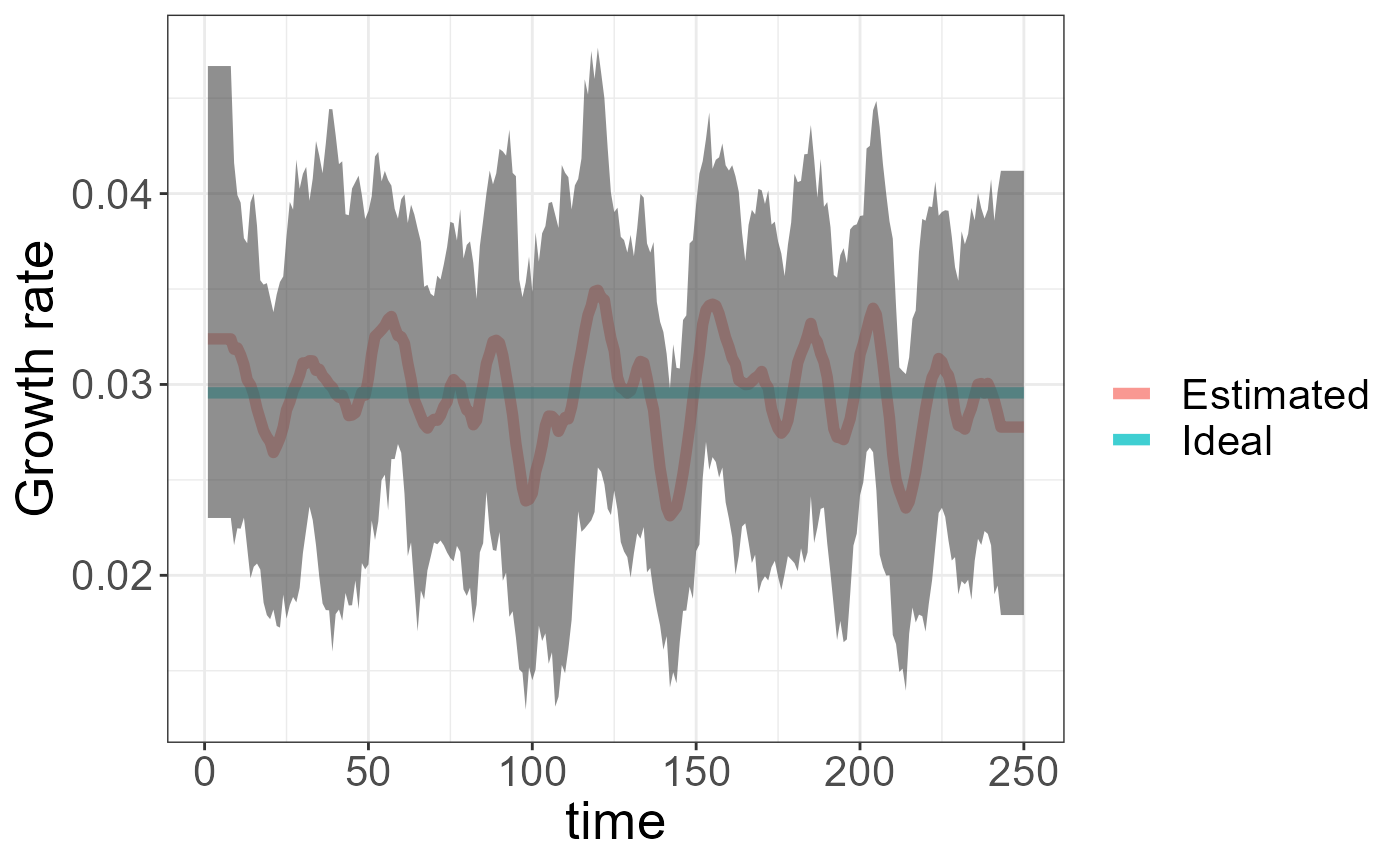
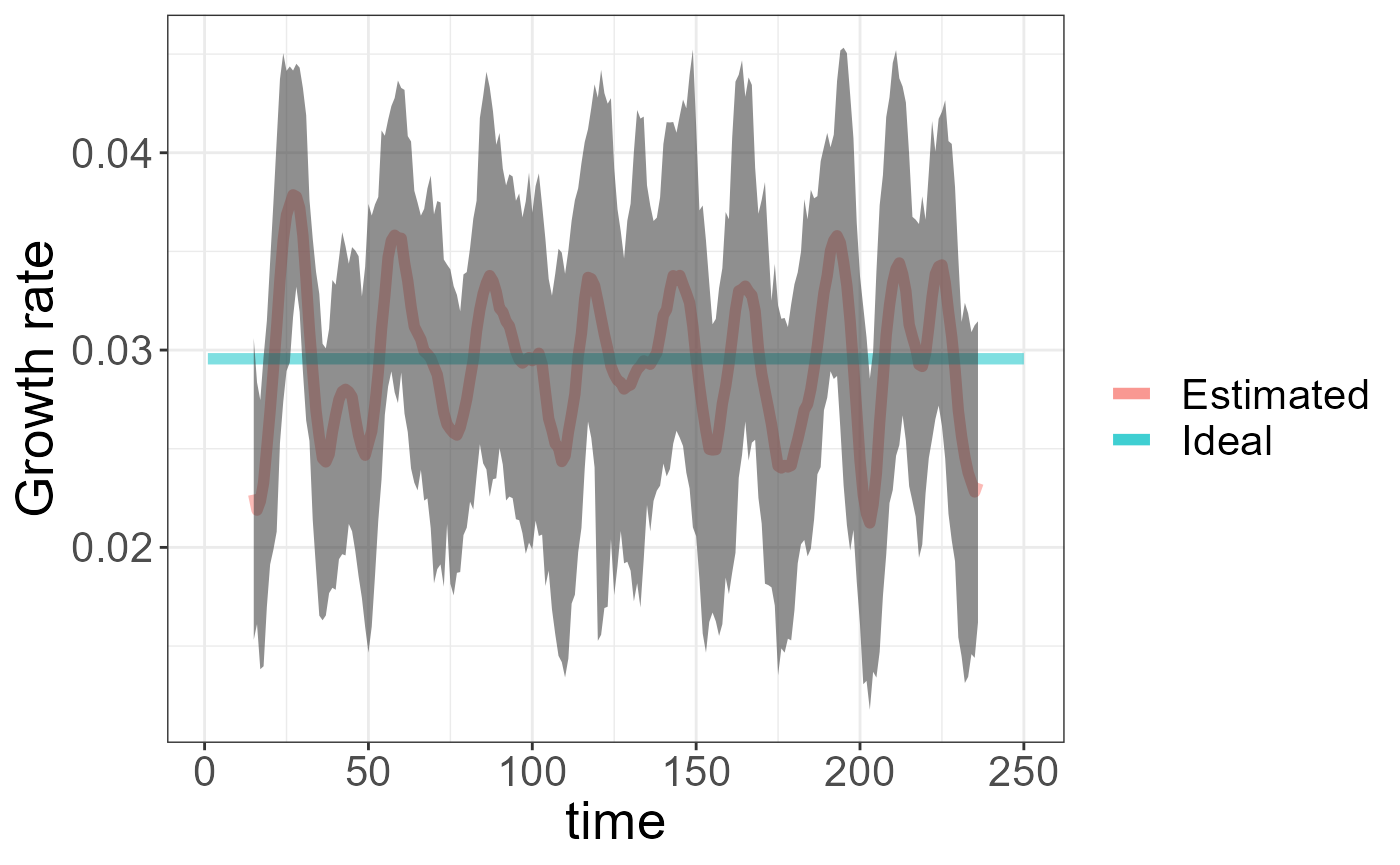
remove starting and ending values by default

Changed region(s): [[0.0307, 0.0624, 0.7371, 0.8116], [0.0307, 0.6243, 0.1229, 0.6867]]

diff --git a/docs/articles/getting_started.html b/docs/articles/getting_started.html
@@ -82,7 +82,7 @@
       <h1 data-toc-skip>Getting Started</h1>
                         <h4 class="author">Matthew So</h4>
             
-            <h4 class="date">2021-06-17</h4>
+            <h4 class="date">2021-06-24</h4>
       
       <small class="dont-index">Source: <a href="https://github.com/matthewcso/rtFilterEstim/blob/master/vignettes/getting_started.rmd"><code>vignettes/getting_started.rmd</code></a></small>
       <div class="hidden name"><code>getting_started.rmd</code></div>
@@ -118,7 +118,7 @@
 <div class="sourceCode" id="cb3"><pre class="downlit sourceCode r">
 <code class="sourceCode R"><span class="fu"><a href="https://rdrr.io/r/base/warning.html">suppressWarnings</a></span><span class="op">(</span>
 <span class="va">estimated_rt</span> <span class="op">&lt;-</span> <span class="fu"><a href="../reference/filter_and_estimate.html">filter_and_estimate</a></span><span class="op">(</span><span class="va">incidence</span>, 
-                                    n_resample<span class="op">=</span><span class="fl">1</span>, n<span class="op">=</span><span class="fl">7</span><span class="op">)</span>
+                                    n_resample<span class="op">=</span><span class="fl">1</span>, n<span class="op">=</span><span class="fl">7</span>, hide_invalid<span class="op">=</span><span class="cn">FALSE</span><span class="op">)</span>
 <span class="op">)</span>
 <span class="va">df</span> <span class="op">&lt;-</span> <span class="fu"><a href="https://rdrr.io/r/base/data.frame.html">data.frame</a></span><span class="op">(</span>incidence<span class="op">=</span><span class="va">incidence</span>, rt_estimate <span class="op">=</span> <span class="va">estimated_rt</span><span class="op">$</span><span class="va">mean</span>, t <span class="op">=</span> <span class="fu"><a href="https://rdrr.io/r/base/c.html">c</a></span><span class="op">(</span><span class="fl">1</span><span class="op">:</span><span class="fl">250</span><span class="op">)</span>, ideal <span class="op">=</span> <span class="fu"><a href="https://rdrr.io/r/base/rep.html">rep</a></span><span class="op">(</span><span class="fu"><a href="https://rdrr.io/r/base/Log.html">log</a></span><span class="op">(</span><span class="fl">1.03</span><span class="op">)</span>, <span class="fl">250</span><span class="op">)</span><span class="op">)</span>
 
@@ -127,8 +127,23 @@
     <span class="fu"><a href="https://ggplot2.tidyverse.org/reference/geom_path.html">geom_line</a></span><span class="op">(</span><span class="fu"><a href="https://ggplot2.tidyverse.org/reference/aes.html">aes</a></span><span class="op">(</span>x<span class="op">=</span><span class="va">t</span>, y<span class="op">=</span><span class="va">ideal</span>, color<span class="op">=</span><span class="st">'Ideal'</span><span class="op">)</span>, alpha<span class="op">=</span><span class="fl">0.5</span>, size<span class="op">=</span><span class="fl">2</span><span class="op">)</span><span class="op">+</span>
     <span class="fu"><a href="https://ggplot2.tidyverse.org/reference/labs.html">labs</a></span><span class="op">(</span>x<span class="op">=</span><span class="st">'time'</span>, y<span class="op">=</span><span class="st">'Growth rate'</span>, col<span class="op">=</span><span class="st">''</span><span class="op">)</span> <span class="op">+</span>
     <span class="fu"><a href="https://ggplot2.tidyverse.org/reference/theme.html">theme</a></span><span class="op">(</span>text <span class="op">=</span> <span class="fu"><a href="https://ggplot2.tidyverse.org/reference/element.html">element_text</a></span><span class="op">(</span>size<span class="op">=</span><span class="fl">20</span><span class="op">)</span><span class="op">)</span></code></pre></div>
-<p><img src="getting_started_files/figure-html/estimate-1.png" width="700"> Let’s try a more difficult example with some noise added.</p>
+<p><img src="getting_started_files/figure-html/estimate-1.png" width="700"></p>
+<p>We can set hide_invalid to TRUE (the default)to remove the points at the beginning and end of the curves.</p>
 <div class="sourceCode" id="cb4"><pre class="downlit sourceCode r">
+<code class="sourceCode R"><span class="fu"><a href="https://rdrr.io/r/base/warning.html">suppressWarnings</a></span><span class="op">(</span>
+<span class="va">estimated_rt</span> <span class="op">&lt;-</span> <span class="fu"><a href="../reference/filter_and_estimate.html">filter_and_estimate</a></span><span class="op">(</span><span class="va">incidence</span>, 
+                                    n_resample<span class="op">=</span><span class="fl">1</span>, n<span class="op">=</span><span class="fl">7</span>, hide_invalid<span class="op">=</span><span class="cn">TRUE</span><span class="op">)</span>
+<span class="op">)</span>
+<span class="va">df</span> <span class="op">&lt;-</span> <span class="fu"><a href="https://rdrr.io/r/base/data.frame.html">data.frame</a></span><span class="op">(</span>incidence<span class="op">=</span><span class="va">incidence</span>, rt_estimate <span class="op">=</span> <span class="va">estimated_rt</span><span class="op">$</span><span class="va">mean</span>, t <span class="op">=</span> <span class="fu"><a href="https://rdrr.io/r/base/c.html">c</a></span><span class="op">(</span><span class="fl">1</span><span class="op">:</span><span class="fl">250</span><span class="op">)</span>, ideal <span class="op">=</span> <span class="fu"><a href="https://rdrr.io/r/base/rep.html">rep</a></span><span class="op">(</span><span class="fu"><a href="https://rdrr.io/r/base/Log.html">log</a></span><span class="op">(</span><span class="fl">1.03</span><span class="op">)</span>, <span class="fl">250</span><span class="op">)</span><span class="op">)</span>
+
+<span class="fu"><a href="https://ggplot2.tidyverse.org/reference/ggplot.html">ggplot</a></span><span class="op">(</span><span class="va">df</span><span class="op">)</span> <span class="op">+</span>
+    <span class="fu"><a href="https://ggplot2.tidyverse.org/reference/geom_path.html">geom_line</a></span><span class="op">(</span><span class="fu"><a href="https://ggplot2.tidyverse.org/reference/aes.html">aes</a></span><span class="op">(</span>x<span class="op">=</span><span class="va">t</span>, y<span class="op">=</span><span class="va">rt_estimate</span>, color<span class="op">=</span><span class="st">'Estimated'</span><span class="op">)</span>, alpha<span class="op">=</span><span class="fl">0.5</span>, size<span class="op">=</span><span class="fl">2</span><span class="op">)</span> <span class="op">+</span>
+    <span class="fu"><a href="https://ggplot2.tidyverse.org/reference/geom_path.html">geom_line</a></span><span class="op">(</span><span class="fu"><a href="https://ggplot2.tidyverse.org/reference/aes.html">aes</a></span><span class="op">(</span>x<span class="op">=</span><span class="va">t</span>, y<span class="op">=</span><span class="va">ideal</span>, color<span class="op">=</span><span class="st">'Ideal'</span><span class="op">)</span>, alpha<span class="op">=</span><span class="fl">0.5</span>, size<span class="op">=</span><span class="fl">2</span><span class="op">)</span><span class="op">+</span>
+    <span class="fu"><a href="https://ggplot2.tidyverse.org/reference/labs.html">labs</a></span><span class="op">(</span>x<span class="op">=</span><span class="st">'time'</span>, y<span class="op">=</span><span class="st">'Growth rate'</span>, col<span class="op">=</span><span class="st">''</span><span class="op">)</span> <span class="op">+</span>
+    <span class="fu"><a href="https://ggplot2.tidyverse.org/reference/theme.html">theme</a></span><span class="op">(</span>text <span class="op">=</span> <span class="fu"><a href="https://ggplot2.tidyverse.org/reference/element.html">element_text</a></span><span class="op">(</span>size<span class="op">=</span><span class="fl">20</span><span class="op">)</span><span class="op">)</span></code></pre></div>
+<pre><code>## Warning: Removed 12 row(s) containing missing values (geom_path).</code></pre>
+<p><img src="getting_started_files/figure-html/estimate_no_invalid-1.png" width="700"> Let’s try a more difficult example with some noise added.</p>
+<div class="sourceCode" id="cb6"><pre class="downlit sourceCode r">
 <code class="sourceCode R"><span class="va">time</span> <span class="op">&lt;-</span> <span class="fu"><a href="https://rdrr.io/r/base/c.html">c</a></span><span class="op">(</span><span class="fl">1</span><span class="op">:</span><span class="fl">250</span><span class="op">)</span>
 <span class="va">incidence</span> <span class="op">&lt;-</span> <span class="fu"><a href="https://rdrr.io/r/base/lapply.html">sapply</a></span><span class="op">(</span><span class="va">time</span>, <span class="kw">function</span><span class="op">(</span><span class="va">n</span><span class="op">)</span><span class="op">{</span><span class="fl">10</span><span class="op">*</span><span class="op">(</span><span class="fl">1.03</span><span class="op">**</span><span class="va">n</span><span class="op">)</span><span class="op">*</span><span class="fu"><a href="https://rdrr.io/r/stats/Uniform.html">runif</a></span><span class="op">(</span><span class="fl">1</span>, min<span class="op">=</span><span class="fl">0.9</span>, max<span class="op">=</span><span class="fl">1.1</span><span class="op">)</span><span class="op">}</span><span class="op">)</span>
 
@@ -137,7 +152,7 @@
     <span class="fu"><a href="https://ggplot2.tidyverse.org/reference/labs.html">labs</a></span><span class="op">(</span>x<span class="op">=</span><span class="st">'Time (days)'</span>, y<span class="op">=</span><span class="st">'Incidence (1/day)'</span><span class="op">)</span> <span class="op">+</span>
     <span class="fu"><a href="https://ggplot2.tidyverse.org/reference/theme.html">theme</a></span><span class="op">(</span>text <span class="op">=</span> <span class="fu"><a href="https://ggplot2.tidyverse.org/reference/element.html">element_text</a></span><span class="op">(</span>size<span class="op">=</span><span class="fl">20</span><span class="op">)</span><span class="op">)</span></code></pre></div>
 <p><img src="getting_started_files/figure-html/usage_noise-1.png" width="700"> Due to the increased noise level in this data, a longer filtering interval may be necessary. (Filtering intervals must be odd, due to the use of the Savitzky-Golay filter). We will also make use of the confidence interval generation by using a reasonable number to bootstrap CI estimation.</p>
-<div class="sourceCode" id="cb5"><pre class="downlit sourceCode r">
+<div class="sourceCode" id="cb7"><pre class="downlit sourceCode r">
 <code class="sourceCode R"><span class="fu"><a href="https://rdrr.io/r/base/warning.html">suppressWarnings</a></span><span class="op">(</span>
 <span class="va">estimated_rt</span> <span class="op">&lt;-</span> <span class="fu"><a href="../reference/filter_and_estimate.html">filter_and_estimate</a></span><span class="op">(</span><span class="va">incidence</span>, 
                                     n_resample<span class="op">=</span><span class="fl">100</span>, n<span class="op">=</span><span class="fl">15</span><span class="op">)</span>
@@ -150,6 +165,7 @@
     <span class="fu"><a href="https://ggplot2.tidyverse.org/reference/labs.html">labs</a></span><span class="op">(</span>x<span class="op">=</span><span class="st">'time'</span>, y<span class="op">=</span><span class="st">'Growth rate'</span>, col<span class="op">=</span><span class="st">''</span><span class="op">)</span> <span class="op">+</span>
     <span class="fu"><a href="https://ggplot2.tidyverse.org/reference/geom_ribbon.html">geom_ribbon</a></span><span class="op">(</span><span class="fu"><a href="https://ggplot2.tidyverse.org/reference/aes.html">aes</a></span><span class="op">(</span>x<span class="op">=</span><span class="va">t</span>, ymin<span class="op">=</span><span class="va">lower</span>, ymax<span class="op">=</span><span class="va">upper</span>, alpha<span class="op">=</span><span class="fl">0.05</span><span class="op">)</span>, show.legend<span class="op">=</span><span class="cn">FALSE</span><span class="op">)</span> <span class="op">+</span>
     <span class="fu"><a href="https://ggplot2.tidyverse.org/reference/theme.html">theme</a></span><span class="op">(</span>text <span class="op">=</span> <span class="fu"><a href="https://ggplot2.tidyverse.org/reference/element.html">element_text</a></span><span class="op">(</span>size<span class="op">=</span><span class="fl">20</span><span class="op">)</span><span class="op">)</span></code></pre></div>
+<pre><code>## Warning: Removed 28 row(s) containing missing values (geom_path).</code></pre>
 <p><img src="getting_started_files/figure-html/estimate_noise-1.png" width="700"></p>
 </div>
   </div>

diff --git a/docs/reference/filter_and_estimate.html b/docs/reference/filter_and_estimate.html
@@ -129,7 +129,14 @@
     <p>Utility function for filtering and estimating</p>
     </div>
 
-    <pre class="usage"><span class='fu'>filter_and_estimate</span><span class='op'>(</span><span class='va'>incidence</span>, <span class='va'>n_resample</span>, level <span class='op'>=</span> <span class='fl'>0.95</span>, shift_amt <span class='op'>=</span> <span class='fl'>0</span>, n <span class='op'>=</span> <span class='fl'>7</span><span class='op'>)</span></pre>
+    <pre class="usage"><span class='fu'>filter_and_estimate</span><span class='op'>(</span>
+  <span class='va'>incidence</span>,
+  <span class='va'>n_resample</span>,
+  level <span class='op'>=</span> <span class='fl'>0.95</span>,
+  shift_amt <span class='op'>=</span> <span class='fl'>0</span>,
+  n <span class='op'>=</span> <span class='fl'>7</span>,
+  hide_invalid <span class='op'>=</span> <span class='cn'>TRUE</span>
+<span class='op'>)</span></pre>
 
     <h2 class="hasAnchor" id="arguments"><a class="anchor" href="#arguments"></a>Arguments</h2>
     <table class="ref-arguments">
@@ -153,6 +160,10 @@
     <tr>
       <th>n</th>
       <td><p>number of timesteps to filter (longer is smoother), must be odd</p></td>
+    </tr>
+    <tr>
+      <th>hide_invalid</th>
+      <td><p>whether or not to return NA for the first/last n-1 times</p></td>
     </tr>
     </table>
 

diff --git a/docs/reference/rt_estimation_ci.html b/docs/reference/rt_estimation_ci.html
@@ -136,7 +136,8 @@
   n_resample <span class='op'>=</span> <span class='fl'>200</span>,
   level <span class='op'>=</span> <span class='fl'>0.95</span>,
   shift_amt <span class='op'>=</span> <span class='fl'>0</span>,
-  n <span class='op'>=</span> <span class='fl'>7</span>
+  n <span class='op'>=</span> <span class='fl'>7</span>,
+  hide_invalid <span class='op'>=</span> <span class='cn'>TRUE</span>
 <span class='op'>)</span></pre>
 
     <h2 class="hasAnchor" id="arguments"><a class="anchor" href="#arguments"></a>Arguments</h2>
@@ -169,6 +170,10 @@
     <tr>
       <th>n</th>
       <td><p>number of timesteps to filter (longer is smoother), must be odd</p></td>
+    </tr>
+    <tr>
+      <th>hide_invalid</th>
+      <td><p>whether or not to return NA for the first/last n-1 times</p></td>
     </tr>
     </table>
 
